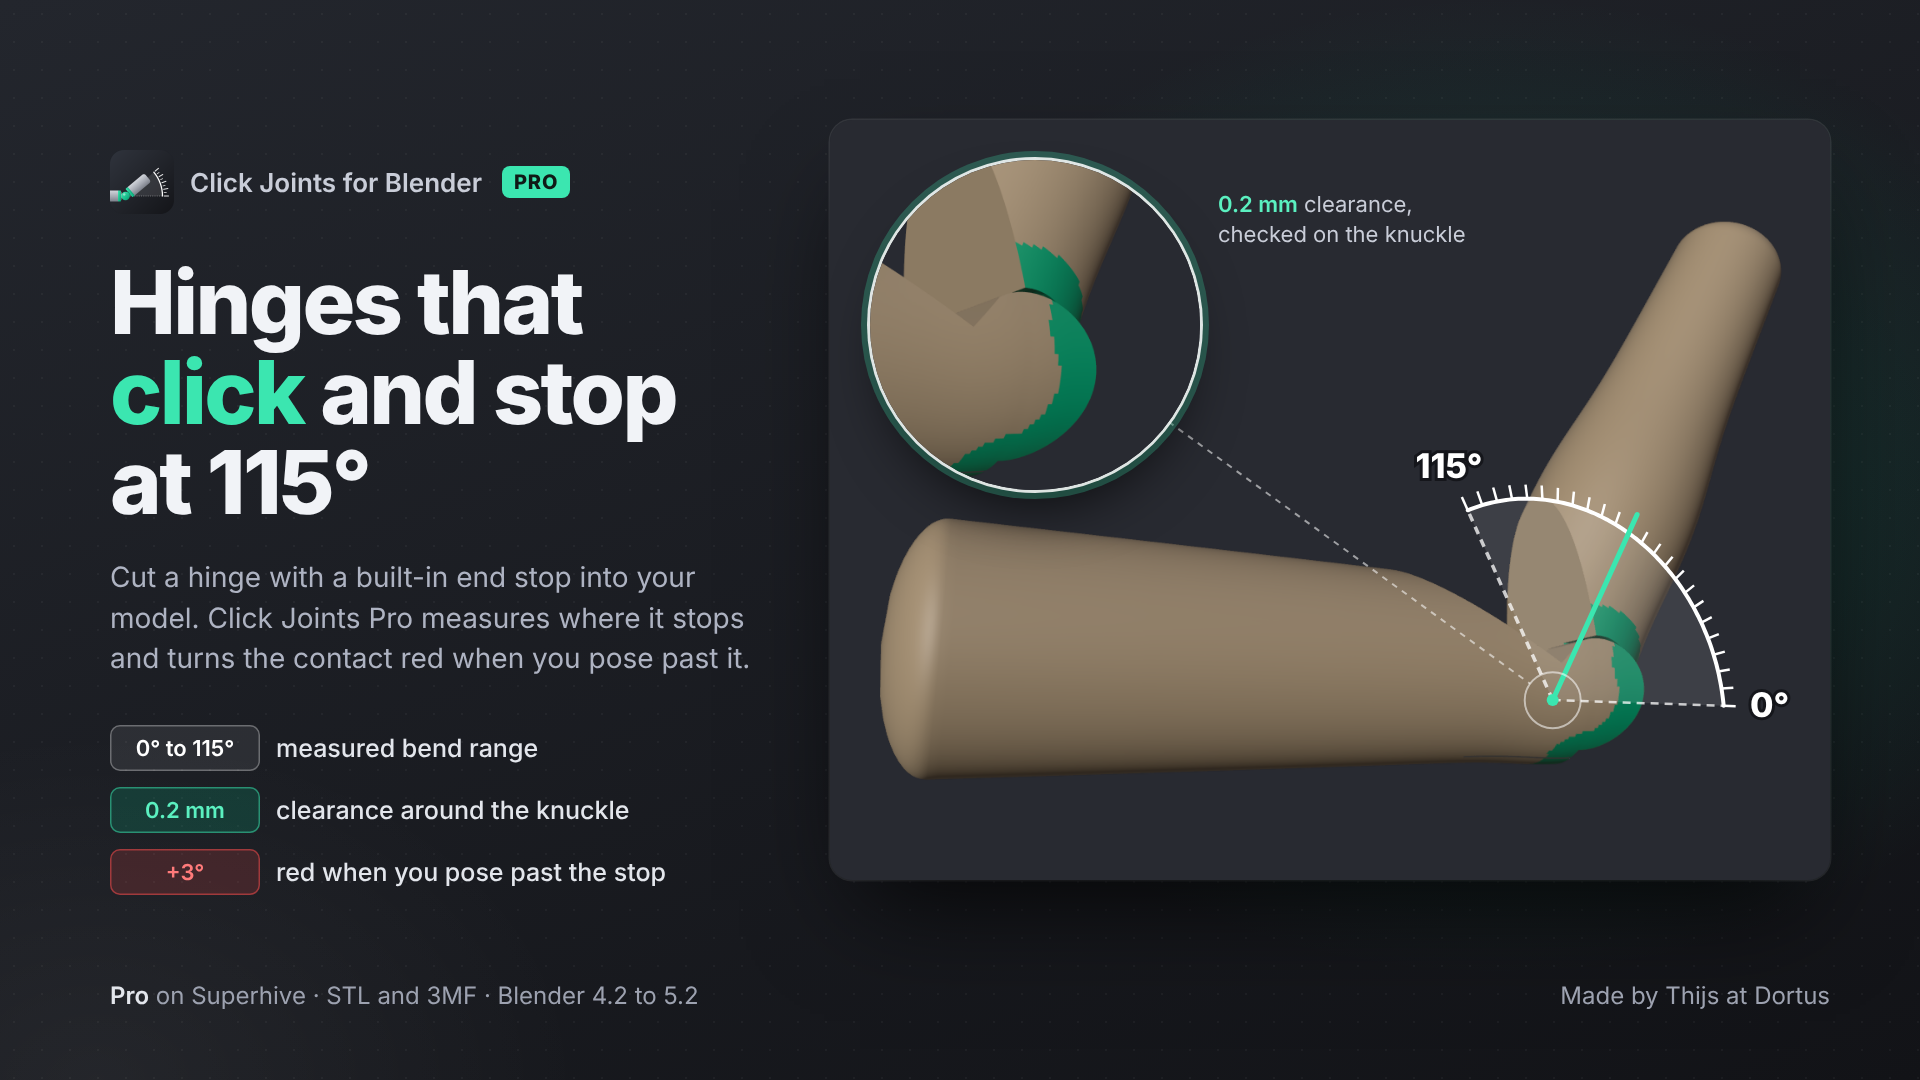
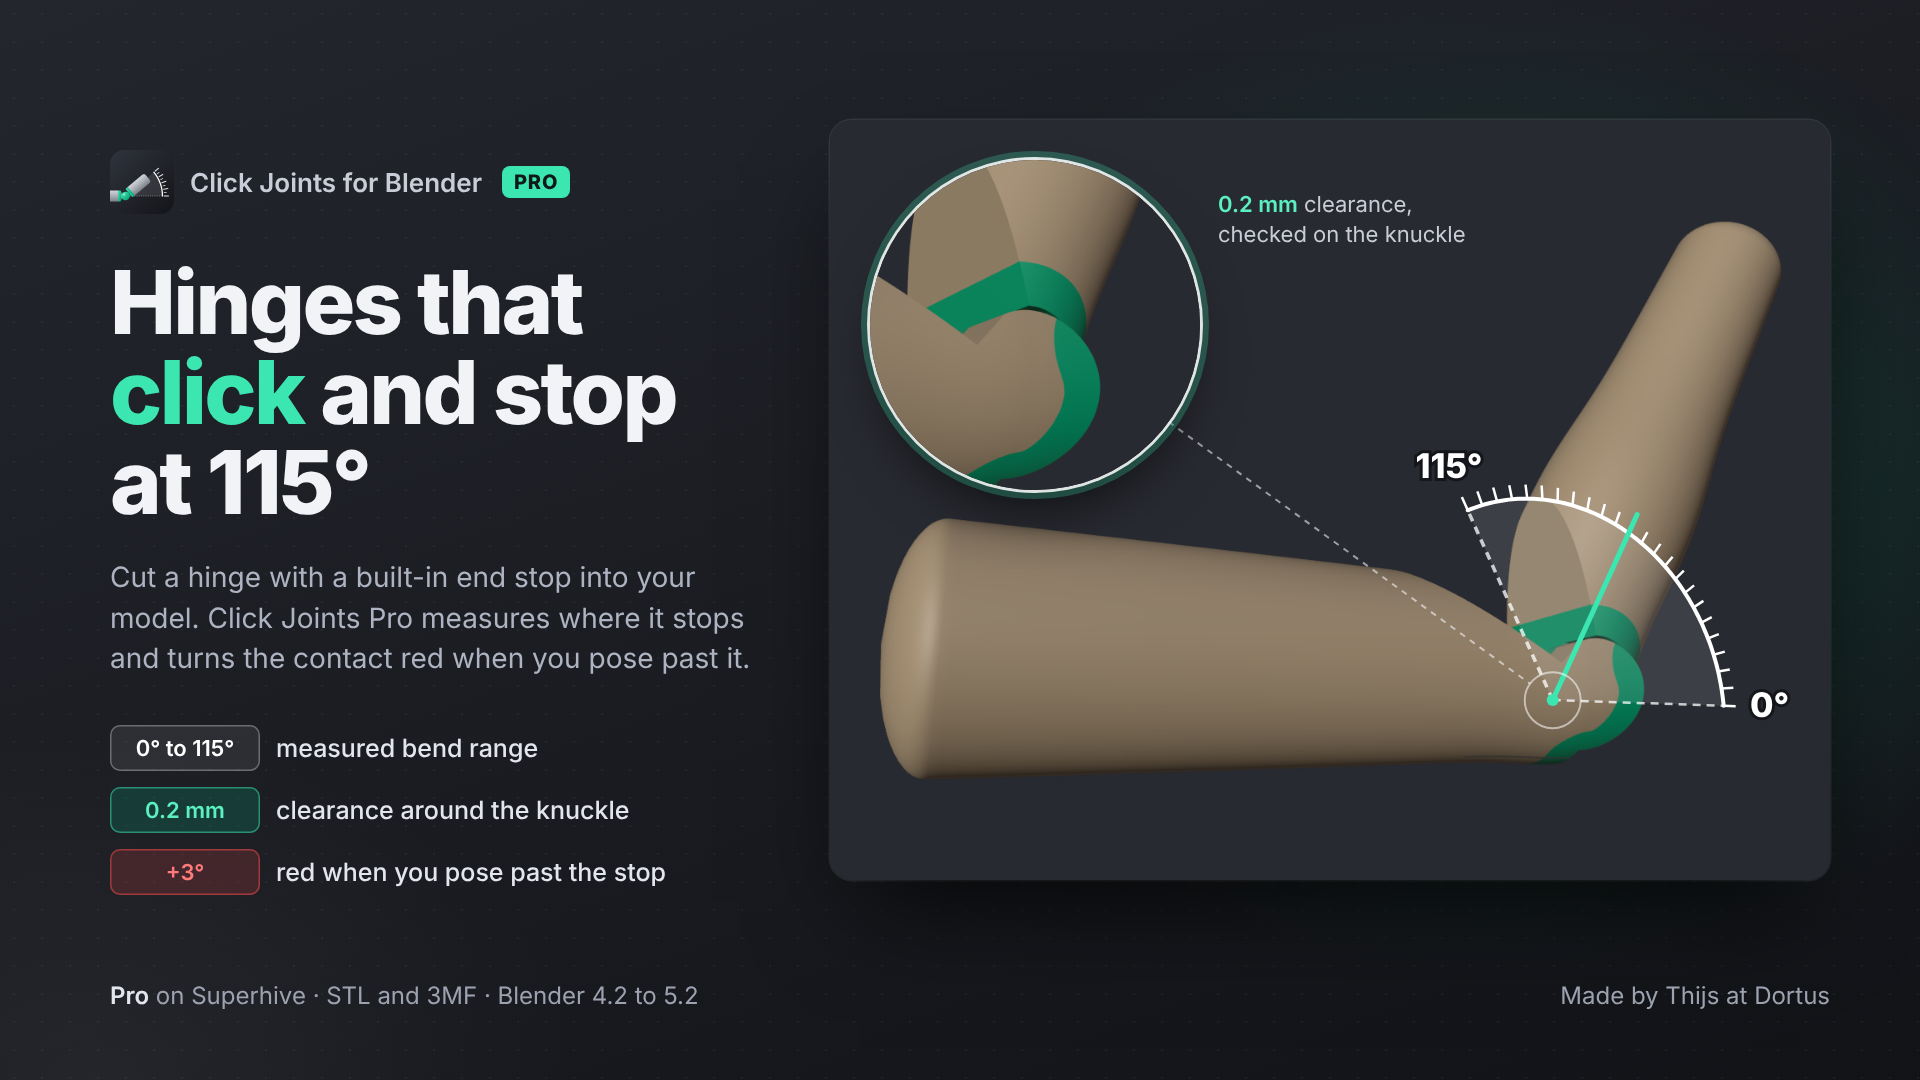
Bram: poster 3 met gladde band (run 43574893345), groen midden in het vergrootglas (kan Daan), toets band glad
Claude-Session: https://claude.ai/code/session_01RMWUyfh7hd3yYstLjYUnT3

Changed region(s): [[0.4375, 0.1833, 0.5938, 0.3056], [0.5, 0.3667, 0.5938, 0.4583], [0.7812, 0.55, 0.8438, 0.6111]]

diff --git a/ontwerp/click-joints/pro/bron/render.py b/ontwerp/click-joints/pro/bron/render.py
@@ -65,7 +65,7 @@ def loep(d, dicht, s, tx, ty):
     hx, hy = tx + s * c[0], ty + s * c[1]               # knie in het vak
     px = np.asarray(Image.open(dicht).convert("RGB")).astype(int)   # midden van de uitsnede: het groen in 13d
     gy, gx = np.nonzero((px[..., 1] > 115) & (px[..., 0] < 90) & (px[..., 2] < 150))
-    gm = (gx.mean() - 60, gy.mean()) if len(gx) > 300 else (c[0], c[1])   # iets links: de knie erbij, niet alleen de band
+    gm = (gx.mean() + 10, gy.mean()) if len(gx) > 300 else (c[0], c[1])   # groen in het midden (kan Daan 07:40: geen los grijs hoekje linksboven)
     bx, by = gm[0] - LOEP_BRON / 2, gm[1] - LOEP_BRON / 2  # linksboven van de uitsnede in 13d
     r = LOEP_D / 2
     mx, my = ix + r, iy + r

diff --git a/producten/blender-gewrichten/e2e/toetsen_scharnier_pose.py b/producten/blender-gewrichten/e2e/toetsen_scharnier_pose.py
@@ -109,6 +109,8 @@ def toets(stap, eigen, cursor):
         band[ob.name] = (int(ob.get("cj_band_vlakken", 0)), sum(1 for f in ob.data.polygons if f.material_index == vak))
     print(f"[cj-betaald] METING groene band (cj_band_vlakken, vlakken op Good fit): {band}")
     stap("band: A en B hebben een groene band langs de naad", all(n > 0 and n == m for n, m in band.values()), str(band))
+    soort = {ob.name: ob.get("cj_band_soort") for ob in (a, b)}
+    stap("band: rand glad gesneden (1.0.1, geen trapjesrand)", all(v == "glad" for v in soort.values()), str(soort))
     # (g2) 1.0.1 (Daan 14 nov 05:45): de veersleuf van A donker in plaats van een licht krasje, alleen weergave.
     sleuf = {}
     for ob in (a, b):
